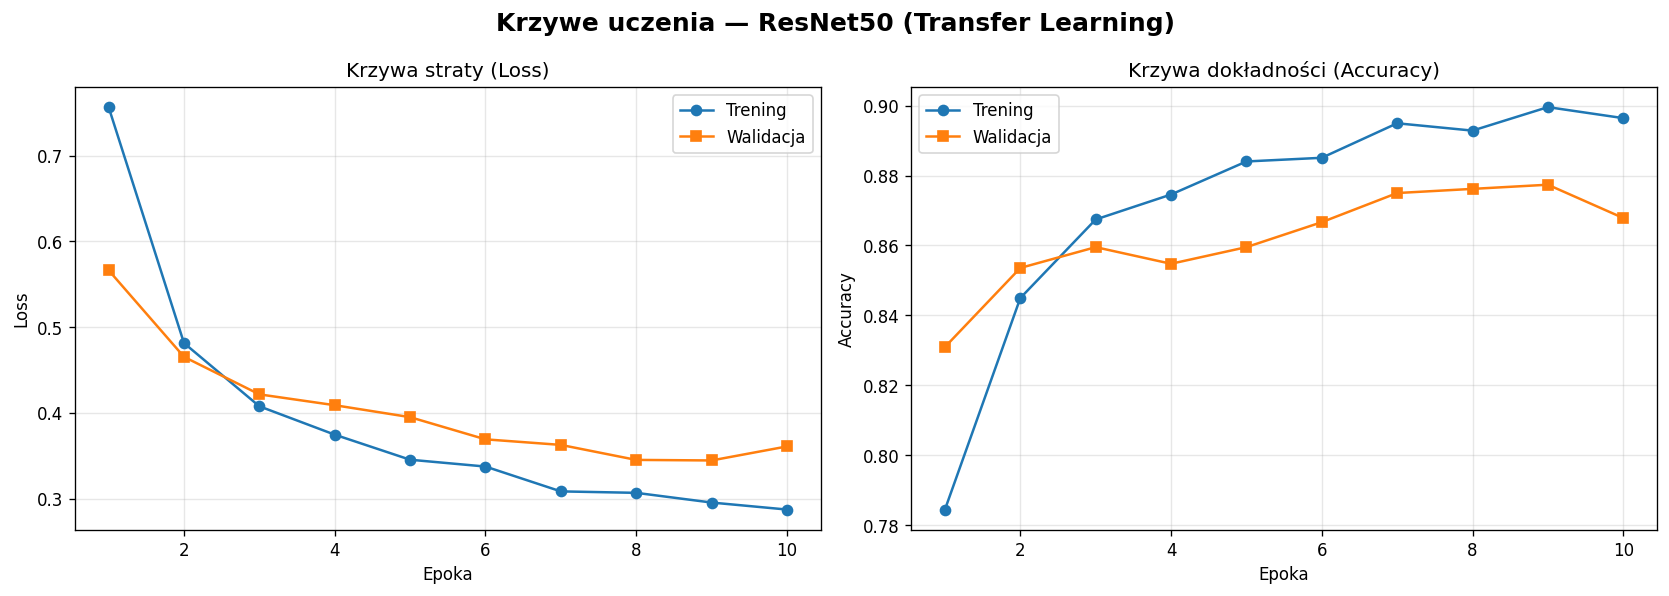
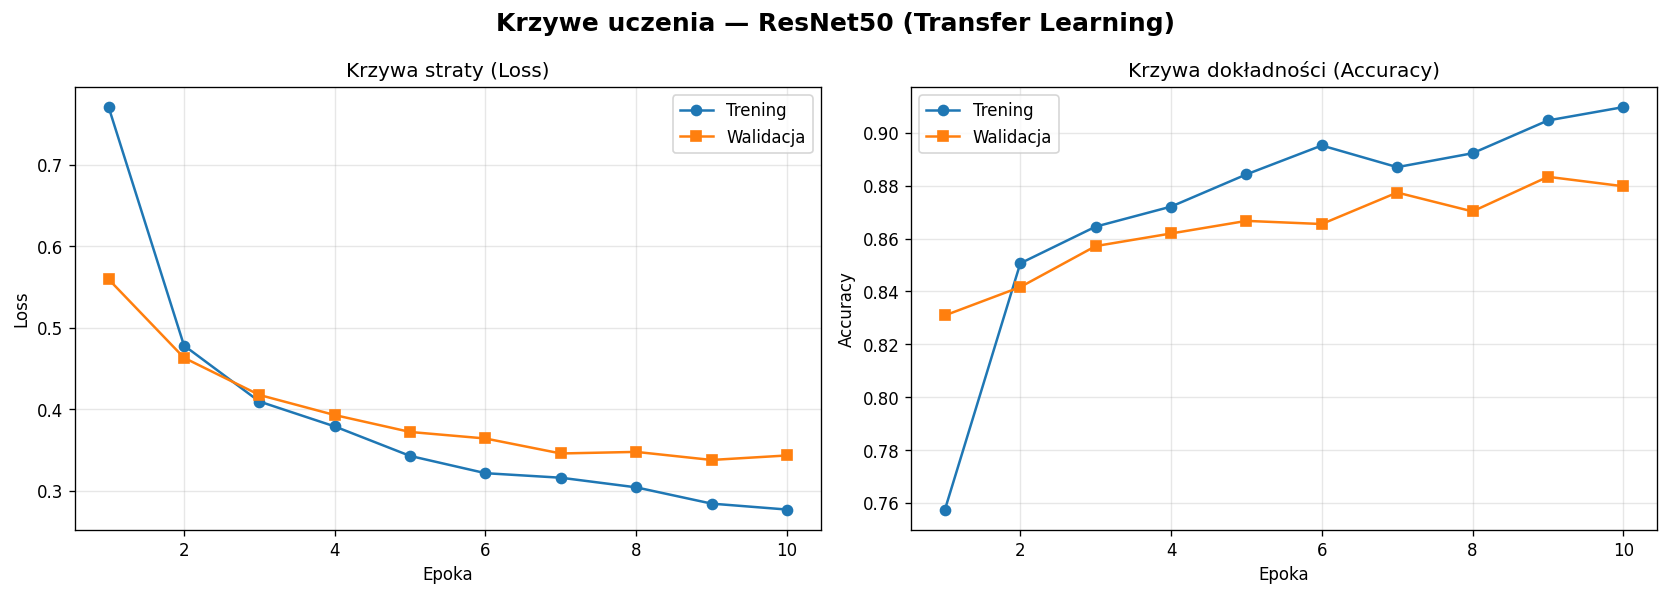
Corrections

diff --git a/src/train.py b/src/train.py
@@ -1,4 +1,4 @@
-"""Trening ResNet50 (transfer learning): train → val → checkpoint → finalny test."""
+#Trening ResNet50 (transfer learning): train → val → checkpoint → finalny test
 
 import matplotlib.pyplot as plt
 import torch
@@ -31,7 +31,7 @@ def train_one_epoch(
         images = images.to(device, non_blocking=True)
         labels = labels.to(device, non_blocking=True)
 
-        optimizer.zero_grad()         # gradienty się kumulują — zerujemy co batch
+        optimizer.zero_grad()         # gradienty się kumulują —> zerujemy co batch
         outputs = model(images)
         loss = criterion(outputs, labels)
         loss.backward()
@@ -52,7 +52,7 @@ def evaluate(
     criterion: nn.Module,
     device: torch.device,
 ) -> tuple[float, float]:
-    """Walidacja lub test — model.eval() + bez gradientów."""
+    #Walidacja lub test — model.eval() + bez gradientow
     model.eval()
     running_loss = 0.0
     correct = total = 0
@@ -120,11 +120,11 @@ def run_training(
     model = build_resnet50(num_classes=num_classes, freeze_backbone=True).to(device)
     criterion = nn.CrossEntropyLoss()
 
-    # Tylko parametry uczone — backbone jest zamrożony (requires_grad=False).
+    # Tylko parametry uczone, bo backbone jest zamrożony (requires_grad=False)
     trainable_params = [p for p in model.parameters() if p.requires_grad]
     optimizer = torch.optim.Adam(trainable_params, lr=learning_rate)
 
-    # Gdy val_loss nie spada przez 2 epoki, tnie lr 10× — wygładza skoki.
+    # Gdy val_loss nie spada przez 2 epoki, tnie lr 10× — wygładza skoki
     scheduler = ReduceLROnPlateau(optimizer, mode="min", factor=0.1, patience=2)
 
     history = {"train_loss": [], "train_acc": [], "val_loss": [], "val_acc": []}
@@ -157,7 +157,7 @@ def run_training(
             end="",
         )
 
-        # Checkpoint po val_acc; zapisujemy state_dict (przenośne).
+        # Checkpoint po val_acc -> zapisujemy state_dict (przenośne).
         if val_acc > best_val_acc:
             best_val_acc = val_acc
             torch.save(model.state_dict(), best_model_path)
@@ -171,7 +171,7 @@ def run_training(
 
     plot_curves(history, REPORTS_DIR / "training_curves_resnet50.png")
 
-    # Finalna, uczciwa ocena: najlepsze wagi na zbiorze testowym (wcześniej nieużywanym).
+    # Finalna uczciwa ocena. Najlepsze wagi na zbiorze testowym, który wcześniej był nieużywany
     print("\n" + "=" * 70)
     print("FINALNA OCENA NA ZBIORZE TESTOWYM (Kaggle 'Testing')")
     print("=" * 70)
@@ -188,5 +188,5 @@ if __name__ == "__main__":
         batch_size=32,
         learning_rate=1e-3,
         image_size=224,
-        num_workers=0,   # 0 = bezpieczne dla Windows
+        num_workers=0,   # 0 = bezpieczne dla windows / sprawdzić w przyszlosci dla 4!!!
     )

diff --git a/src/dataset_setup.py b/src/dataset_setup.py
@@ -1,4 +1,4 @@
-"""Wczytywanie danych MRI i budowa DataLoaderów (train / val / test)."""
+#Wczytywanie danych MRI i budowa DataLoaderów (train / val / test)
 
 import sys
 from pathlib import Path
@@ -15,7 +15,7 @@ PROJECT_ROOT = Path(__file__).resolve().parent.parent
 DATA_TRAIN   = PROJECT_ROOT / "data" / "raw" / "Training"
 DATA_TEST    = PROJECT_ROOT / "data" / "raw" / "Testing"
 
-# ResNet50 wymaga wejścia znormalizowanego dokładnie statystykami ImageNet.
+# ResNet50 wymaga wejścia znormalizowanego dokładnie statystykami ImageNet
 IMAGENET_MEAN = [0.485, 0.456, 0.406]
 IMAGENET_STD  = [0.229, 0.224, 0.225]
 
@@ -46,7 +46,7 @@ def prepare_dataloaders(
     num_workers: int = 0,
     seed: int = 42,
 ) -> tuple[DataLoader, DataLoader, DataLoader, list[str]]:
-    """Train/val wydzielone z folderu Training; test = osobny folder Testing (nietknięty)."""
+    # Train/val wydzielone z folderu Training, test = osobny folder Testing (nietknięty)
     train_tf, eval_tf = build_transforms(image_size)
 
     # Osobny ImageFolder bez augmentacji, żeby walidacja nie była augmentowana.
@@ -113,7 +113,7 @@ def print_summary(
 
 
 def _denormalize(tensor: torch.Tensor) -> np.ndarray:
-    """Odwraca Normalize() — bez tego obraz na wykresie ma przekłamane kolory."""
+    # Odwraca Normalize() — bez tego obraz na wykresie ma przekłamane kolory
     mean = torch.tensor(IMAGENET_MEAN).view(3, 1, 1)
     std  = torch.tensor(IMAGENET_STD).view(3, 1, 1)
     img = (tensor * std + mean).clamp(0.0, 1.0)
@@ -147,7 +147,7 @@ def show_sample_grid(loader: DataLoader, class_names: list[str], n_images: int =
 def main() -> None:
     IMAGE_SIZE  = 224
     BATCH_SIZE  = 32
-    NUM_WORKERS = 0   # 0 = bezpieczne dla Windows
+    NUM_WORKERS = 0   # 0 = bezpieczne dla windows (później można podbić do 4!!!)
 
     for path, name in [(DATA_TRAIN, "Training"), (DATA_TEST, "Testing")]:
         if not path.exists():

diff --git a/src/model_transfer.py b/src/model_transfer.py
@@ -1,4 +1,4 @@
-"""Transfer learning: ResNet50 (ImageNet) z zamrożonym backbone i nową głowicą FC."""
+#Transfer learning: ResNet50 (ImageNet) z zamrożonym backbone i nową głowicą FC
 
 import torch
 import torch.nn as nn
@@ -7,16 +7,16 @@ from torchvision.models import ResNet50_Weights
 
 
 def build_resnet50(num_classes: int = 4, freeze_backbone: bool = True) -> nn.Module:
-    """ResNet50 z wagami ImageNet; backbone zamrożony, uczy się tylko nowa warstwa fc."""
+    # ResNet50 z wagami ImageNet; backbone zamrożony, uczy się tylko nowa warstwa fc
     weights = ResNet50_Weights.IMAGENET1K_V2
     model = models.resnet50(weights=weights)
 
-    # Zamrożony backbone — uczymy tylko nową głowicę, nie psując cech z ImageNet.
+    # Zamrożony backbone — uczymy tylko nową głowicę, nie psując cech z ImageNet
     if freeze_backbone:
         for param in model.parameters():
             param.requires_grad = False
 
-    # Nowa warstwa (requires_grad=True) dopasowana do num_classes. Bez softmaxu.
+    # Nowa warstwa (requires_grad=True) dopasowana do num_classes. Bez softmaxu
     in_features = model.fc.in_features
     model.fc = nn.Linear(in_features, num_classes)
 
@@ -24,7 +24,7 @@ def build_resnet50(num_classes: int = 4, freeze_backbone: bool = True) -> nn.Mod
 
 
 if __name__ == "__main__":
-    # Sanity check: pobranie wag (raz) + kształt wyjścia (N, 4).
+    # Sanity check: pobranie wag (raz) + kształt wyjścia (N, 4)
     device = torch.device("cuda" if torch.cuda.is_available() else "cpu")
     print(f"Urządzenie: {device}")
 

diff --git a/src/model.py b/src/model.py
@@ -1,11 +1,11 @@
-"""Model bazowy (Baseline CNN) — punkt odniesienia dla transfer learningu."""
+#Model bazowy (Baseline CNN) — punkt odniesienia dla transfer learningu
 
 import torch
 import torch.nn as nn
 
 
 class BaselineCNN(nn.Module):
-    """Prosta CNN: 4 bloki Conv-BN-ReLU-Pool + klasyfikator. Zwraca logity (bez softmaxu)."""
+    #Prosta CNN: 4 bloki Conv-BN-ReLU-Pool + klasyfikator. Zwraca logity (bez softmaxu)
 
     def __init__(self, num_classes: int = 4, in_channels: int = 3):
         super().__init__()